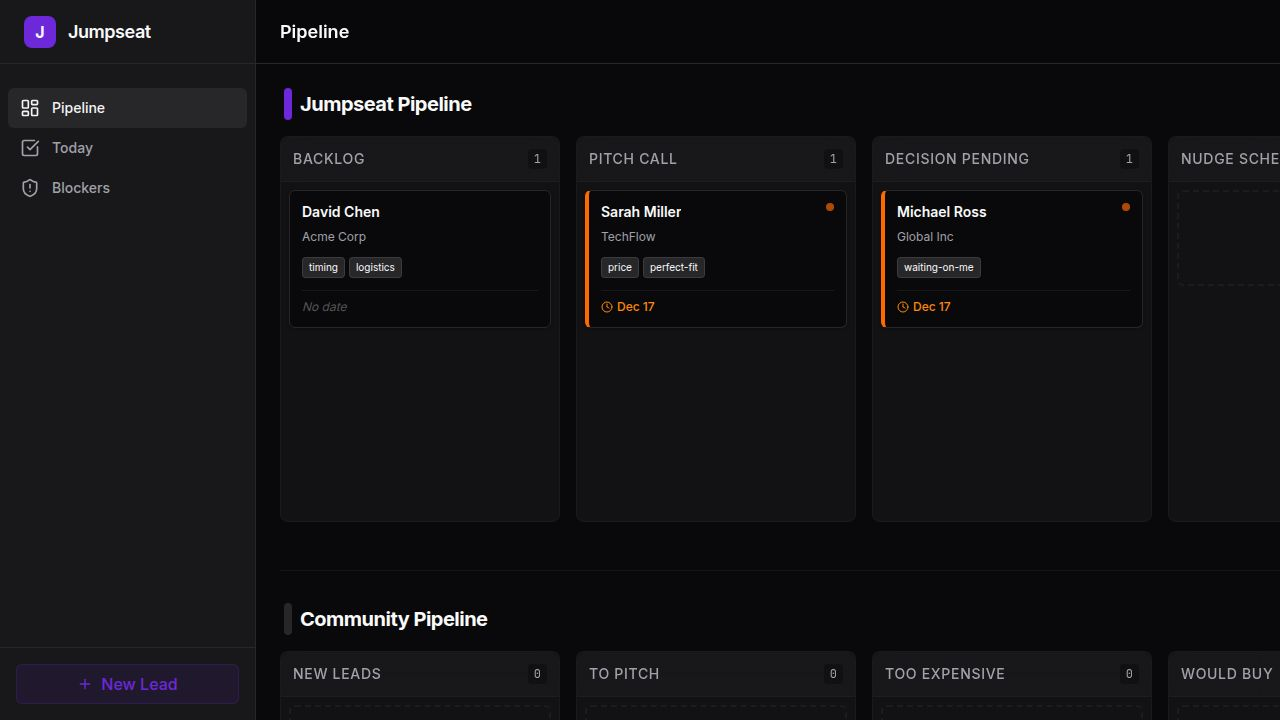
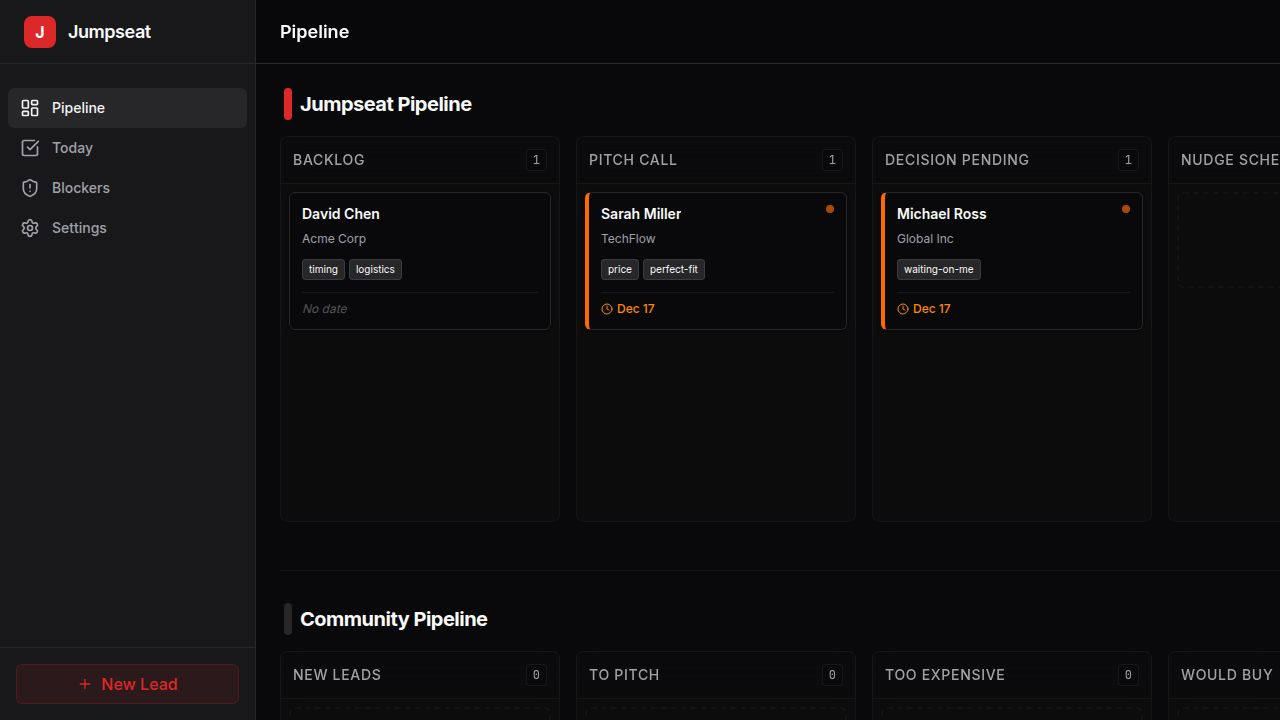
Add LinkedIn profiles and celebrate closing deals with fireworks
Integrates LinkedIn profile URLs into lead details, updates accent color to red, enhances Kanban drop zone visuals, and adds a confetti animation for leads moved to the "Closed" stage.

Replit-Commit-Author: Agent
Replit-Commit-Session-Id: 7dbfe593-8719-46f8-921e-f2176dc3040a
Replit-Commit-Checkpoint-Type: full_checkpoint
Replit-Commit-Event-Id: 1895bac8-5c04-4287-a3da-0f051be1d938
Replit-Commit-Screenshot-Url: https://storage.googleapis.com/screenshot-production-us-central1/5ed89963-c615-4f70-851d-41f2a588be62/7dbfe593-8719-46f8-921e-f2176dc3040a/R6H7Pl2
Replit-Helium-Checkpoint-Created: true

diff --git a/client/src/components/kanban-board.tsx b/client/src/components/kanban-board.tsx
@@ -1,10 +1,11 @@
 import { useStore, Lead, PipelineType, JumpseatStage, CommunityStage } from "@/lib/data";
-import { DndContext, DragOverlay, useSensor, useSensors, PointerSensor, DragStartEvent, DragEndEvent, defaultDropAnimationSideEffects, DropAnimation } from "@dnd-kit/core";
+import { DndContext, DragOverlay, useSensor, useSensors, PointerSensor, DragStartEvent, DragEndEvent, defaultDropAnimationSideEffects, DropAnimation, MeasuringStrategy } from "@dnd-kit/core";
 import { SortableContext, verticalListSortingStrategy } from "@dnd-kit/sortable";
 import { LeadCard } from "./lead-card";
 import { useState } from "react";
 import { createPortal } from "react-dom";
 import { cn } from "@/lib/utils";
+import confetti from "canvas-confetti";
 
 // Column Definitions
 const JUMPSEAT_COLUMNS: { id: JumpseatStage; title: string }[] = [
@@ -69,13 +70,36 @@ export function KanbanBoard({ pipeline, onLeadClick }: KanbanBoardProps) {
       const activeLead = leads.find(l => l.id === activeLeadId);
       if (activeLead && activeLead.stage !== overId) {
         moveLead(activeLeadId, pipeline, overId);
+        
+        // Fireworks if moved to closed
+        if (overId === "closed") {
+            triggerFireworks();
+        }
       }
     }
     
-    // Note: Reordering within a column isn't implemented in the store yet (just stage changes), 
-    // so we'll skip detailed reordering logic for this prototype and focus on stage moves.
-
     setActiveId(null);
+  };
+
+  const triggerFireworks = () => {
+    const duration = 2 * 1000;
+    const animationEnd = Date.now() + duration;
+    const defaults = { startVelocity: 30, spread: 360, ticks: 60, zIndex: 0 };
+
+    const randomInRange = (min: number, max: number) => Math.random() * (max - min) + min;
+
+    const interval: any = setInterval(function() {
+      const timeLeft = animationEnd - Date.now();
+
+      if (timeLeft <= 0) {
+        return clearInterval(interval);
+      }
+
+      const particleCount = 50 * (timeLeft / duration);
+      // since particles fall down, start a bit higher than random
+      confetti({ ...defaults, particleCount, origin: { x: randomInRange(0.1, 0.3), y: Math.random() - 0.2 } });
+      confetti({ ...defaults, particleCount, origin: { x: randomInRange(0.7, 0.9), y: Math.random() - 0.2 } });
+    }, 250);
   };
 
   const dropAnimation: DropAnimation = {
@@ -95,6 +119,11 @@ export function KanbanBoard({ pipeline, onLeadClick }: KanbanBoardProps) {
       sensors={sensors} 
       onDragStart={handleDragStart} 
       onDragEnd={handleDragEnd}
+      measuring={{
+        droppable: {
+            strategy: MeasuringStrategy.Always,
+        }
+      }}
     >
       <div className="flex h-full gap-4 overflow-x-auto pb-4">
         {columns.map((col) => {
@@ -129,26 +158,39 @@ export function KanbanBoard({ pipeline, onLeadClick }: KanbanBoardProps) {
 import { useDroppable } from "@dnd-kit/core";
 
 function KanbanColumn({ id, title, leads, onLeadClick }: { id: string, title: string, leads: Lead[], onLeadClick: (id: string) => void }) {
-  const { setNodeRef } = useDroppable({ id });
+  const { setNodeRef, isOver } = useDroppable({ id });
 
   return (
-    <div ref={setNodeRef} className="flex-shrink-0 w-[280px] flex flex-col h-full bg-muted/30 rounded-lg border border-border/40">
-      <div className="p-3 border-b border-border/40 flex items-center justify-between sticky top-0 bg-muted/30 backdrop-blur-md rounded-t-lg z-10">
+    <div 
+        ref={setNodeRef} 
+        className={cn(
+            "flex-shrink-0 w-[280px] flex flex-col h-full rounded-lg border transition-all duration-200",
+            isOver ? "bg-muted/50 border-primary/30 ring-1 ring-primary/20 shadow-inner" : "bg-muted/10 border-border/40"
+        )}
+    >
+      <div className="p-3 border-b border-border/40 flex items-center justify-between sticky top-0 bg-background/50 backdrop-blur-md rounded-t-lg z-10">
         <h3 className="font-medium text-sm text-muted-foreground uppercase tracking-wider">{title}</h3>
-        <span className="text-xs font-mono bg-background/50 px-1.5 py-0.5 rounded text-muted-foreground">
+        <span className="text-xs font-mono bg-background px-1.5 py-0.5 rounded text-muted-foreground border border-border/50">
           {leads.length}
         </span>
       </div>
       
-      <div className="flex-1 p-2 overflow-y-auto space-y-2 min-h-[150px]">
+      <div className="flex-1 p-2 overflow-y-auto space-y-2 min-h-[150px] scrollbar-none">
         <SortableContext items={leads.map(l => l.id)} strategy={verticalListSortingStrategy}>
           {leads.map((lead) => (
             <LeadCard key={lead.id} lead={lead} onClick={() => onLeadClick(lead.id)} />
           ))}
         </SortableContext>
+        
+        {/* Placeholder effect when empty and dragging over */}
         {leads.length === 0 && (
-          <div className="h-24 border-2 border-dashed border-muted/50 rounded-md flex items-center justify-center">
-            <span className="text-xs text-muted-foreground/50">Empty</span>
+          <div className={cn(
+              "h-24 border-2 border-dashed rounded-md flex items-center justify-center transition-colors",
+              isOver ? "border-primary/40 bg-primary/5" : "border-muted/30"
+          )}>
+            <span className={cn("text-xs", isOver ? "text-primary/70" : "text-muted-foreground/30")}>
+                {isOver ? "Drop Here" : "Empty"}
+            </span>
           </div>
         )}
       </div>

diff --git a/client/src/components/lead-details.tsx b/client/src/components/lead-details.tsx
@@ -3,8 +3,9 @@ import { Lead, useStore } from "@/lib/data";
 import { Badge } from "@/components/ui/badge";
 import { Button } from "@/components/ui/button";
 import { Textarea } from "@/components/ui/textarea";
+import { Input } from "@/components/ui/input";
 import { Separator } from "@/components/ui/separator";
-import { Calendar, Clock, AlertCircle, PlayCircle, ExternalLink, CheckCircle2 } from "lucide-react";
+import { Calendar, Clock, AlertCircle, PlayCircle, ExternalLink, CheckCircle2, Linkedin } from "lucide-react";
 import { useState, useEffect } from "react";
 import { format } from "date-fns";
 
@@ -17,10 +18,12 @@ export function LeadDetails({ leadId, onClose }: LeadDetailsProps) {
   const { leads, updateLead } = useStore();
   const lead = leads.find((l) => l.id === leadId);
   const [notes, setNotes] = useState("");
+  const [linkedInUrl, setLinkedInUrl] = useState("");
 
   useEffect(() => {
     if (lead) {
       setNotes(lead.summary || "");
+      setLinkedInUrl(lead.linkedIn || "");
     }
   }, [lead]);
 
@@ -28,6 +31,10 @@ export function LeadDetails({ leadId, onClose }: LeadDetailsProps) {
 
   const handleSaveNotes = () => {
     updateLead(lead.id, { summary: notes });
+  };
+
+  const handleSaveLinkedIn = () => {
+    updateLead(lead.id, { linkedIn: linkedInUrl });
   };
 
   return (
@@ -52,17 +59,36 @@ export function LeadDetails({ leadId, onClose }: LeadDetailsProps) {
                 ))}
             </div>
 
-            <div className="flex items-center gap-4 text-sm text-muted-foreground">
-                <div className="flex items-center gap-1.5">
-                    <Calendar className="h-4 w-4" />
-                    <span>Created {format(new Date(lead.history[0].date), "MMM d")}</span>
+            <div className="flex flex-col gap-3">
+                 {/* LinkedIn Field */}
+                <div className="flex items-center gap-2">
+                    <Linkedin className="h-4 w-4 text-[#0077b5]" />
+                    <Input 
+                        value={linkedInUrl}
+                        onChange={(e) => setLinkedInUrl(e.target.value)}
+                        onBlur={handleSaveLinkedIn}
+                        placeholder="Paste LinkedIn URL..."
+                        className="h-7 text-xs bg-transparent border-transparent hover:border-border focus:border-primary px-1 w-full max-w-[300px]"
+                    />
+                    {linkedInUrl && (
+                        <a href={linkedInUrl} target="_blank" rel="noreferrer" className="text-muted-foreground hover:text-primary">
+                            <ExternalLink className="h-3 w-3" />
+                        </a>
+                    )}
                 </div>
-                {lead.nextFollowUp && (
-                    <div className="flex items-center gap-1.5 text-orange-400">
-                        <Clock className="h-4 w-4" />
-                        <span>Follow-up: {format(new Date(lead.nextFollowUp), "MMM d")}</span>
+
+                <div className="flex items-center gap-4 text-sm text-muted-foreground mt-1">
+                    <div className="flex items-center gap-1.5">
+                        <Calendar className="h-4 w-4" />
+                        <span>Created {format(new Date(lead.history[0].date), "MMM d")}</span>
                     </div>
-                )}
+                    {lead.nextFollowUp && (
+                        <div className="flex items-center gap-1.5 text-orange-400">
+                            <Clock className="h-4 w-4" />
+                            <span>Follow-up: {format(new Date(lead.nextFollowUp), "MMM d")}</span>
+                        </div>
+                    )}
+                </div>
             </div>
         </div>
 

diff --git a/client/src/index.css b/client/src/index.css
@@ -67,8 +67,9 @@
   --popover: 240 10% 3.9%;
   --popover-foreground: 0 0% 98%;
   
-  --primary: 263.4 70% 50.4%; /* Purple-ish for Jumpseat */
-  --primary-foreground: 210 40% 98%;
+  /* Red Primary */
+  --primary: 0 72% 51%;
+  --primary-foreground: 0 0% 98%;
   
   --secondary: 240 3.7% 15.9%;
   --secondary-foreground: 0 0% 98%;
@@ -84,20 +85,20 @@
   
   --border: 240 3.7% 15.9%;
   --input: 240 3.7% 15.9%;
-  --ring: 240 4.9% 83.9%;
+  --ring: 0 72% 51%;
   
   --radius: 0.5rem;
   
   --sidebar: 240 5.9% 10%;
   --sidebar-foreground: 240 4.8% 95.9%;
-  --sidebar-primary: 224.3 76.3% 48%;
+  --sidebar-primary: 0 72% 51%;
   --sidebar-primary-foreground: 0 0% 100%;
   --sidebar-accent: 240 3.7% 15.9%;
   --sidebar-accent-foreground: 240 4.8% 95.9%;
   --sidebar-border: 240 3.7% 15.9%;
-  --sidebar-ring: 217.2 91.2% 59.8%;
+  --sidebar-ring: 0 72% 51%;
   
-  --chart-1: 220 70% 50%;
+  --chart-1: 0 70% 50%;
   --chart-2: 160 60% 45%;
   --chart-3: 30 80% 55%;
   --chart-4: 280 65% 60%;
@@ -114,8 +115,8 @@
   --popover: 240 10% 3.9%;
   --popover-foreground: 0 0% 98%;
   
-  --primary: 263.4 70% 50.4%;
-  --primary-foreground: 210 40% 98%;
+  --primary: 0 72% 51%;
+  --primary-foreground: 0 0% 98%;
   
   --secondary: 240 3.7% 15.9%;
   --secondary-foreground: 0 0% 98%;
@@ -131,16 +132,16 @@
   
   --border: 240 3.7% 15.9%;
   --input: 240 3.7% 15.9%;
-  --ring: 240 4.9% 83.9%;
+  --ring: 0 72% 51%;
   
   --sidebar: 240 5.9% 10%;
   --sidebar-foreground: 240 4.8% 95.9%;
-  --sidebar-primary: 224.3 76.3% 48%;
+  --sidebar-primary: 0 72% 51%;
   --sidebar-primary-foreground: 0 0% 100%;
   --sidebar-accent: 240 3.7% 15.9%;
   --sidebar-accent-foreground: 240 4.8% 95.9%;
   --sidebar-border: 240 3.7% 15.9%;
-  --sidebar-ring: 217.2 91.2% 59.8%;
+  --sidebar-ring: 0 72% 51%;
 }
 
 @layer base {

diff --git a/client/src/lib/data.tsx b/client/src/lib/data.tsx
@@ -25,6 +25,7 @@ export interface Lead {
   id: string;
   name: string;
   company?: string;
+  linkedIn?: string;
   tags: string[];
   pipeline: PipelineType;
   stage: string;
@@ -56,6 +57,7 @@ const initialLeads: Lead[] = [
     id: "1",
     name: "Sarah Miller",
     company: "TechFlow",
+    linkedIn: "https://linkedin.com/in/sarahmiller-example",
     tags: ["price", "perfect-fit"],
     pipeline: "jumpseat",
     stage: "pitch-call",
@@ -72,6 +74,7 @@ const initialLeads: Lead[] = [
     id: "2",
     name: "David Chen",
     company: "Acme Corp",
+    linkedIn: "https://linkedin.com/in/davidchen-example",
     tags: ["timing", "logistics"],
     pipeline: "jumpseat",
     stage: "backlog",
